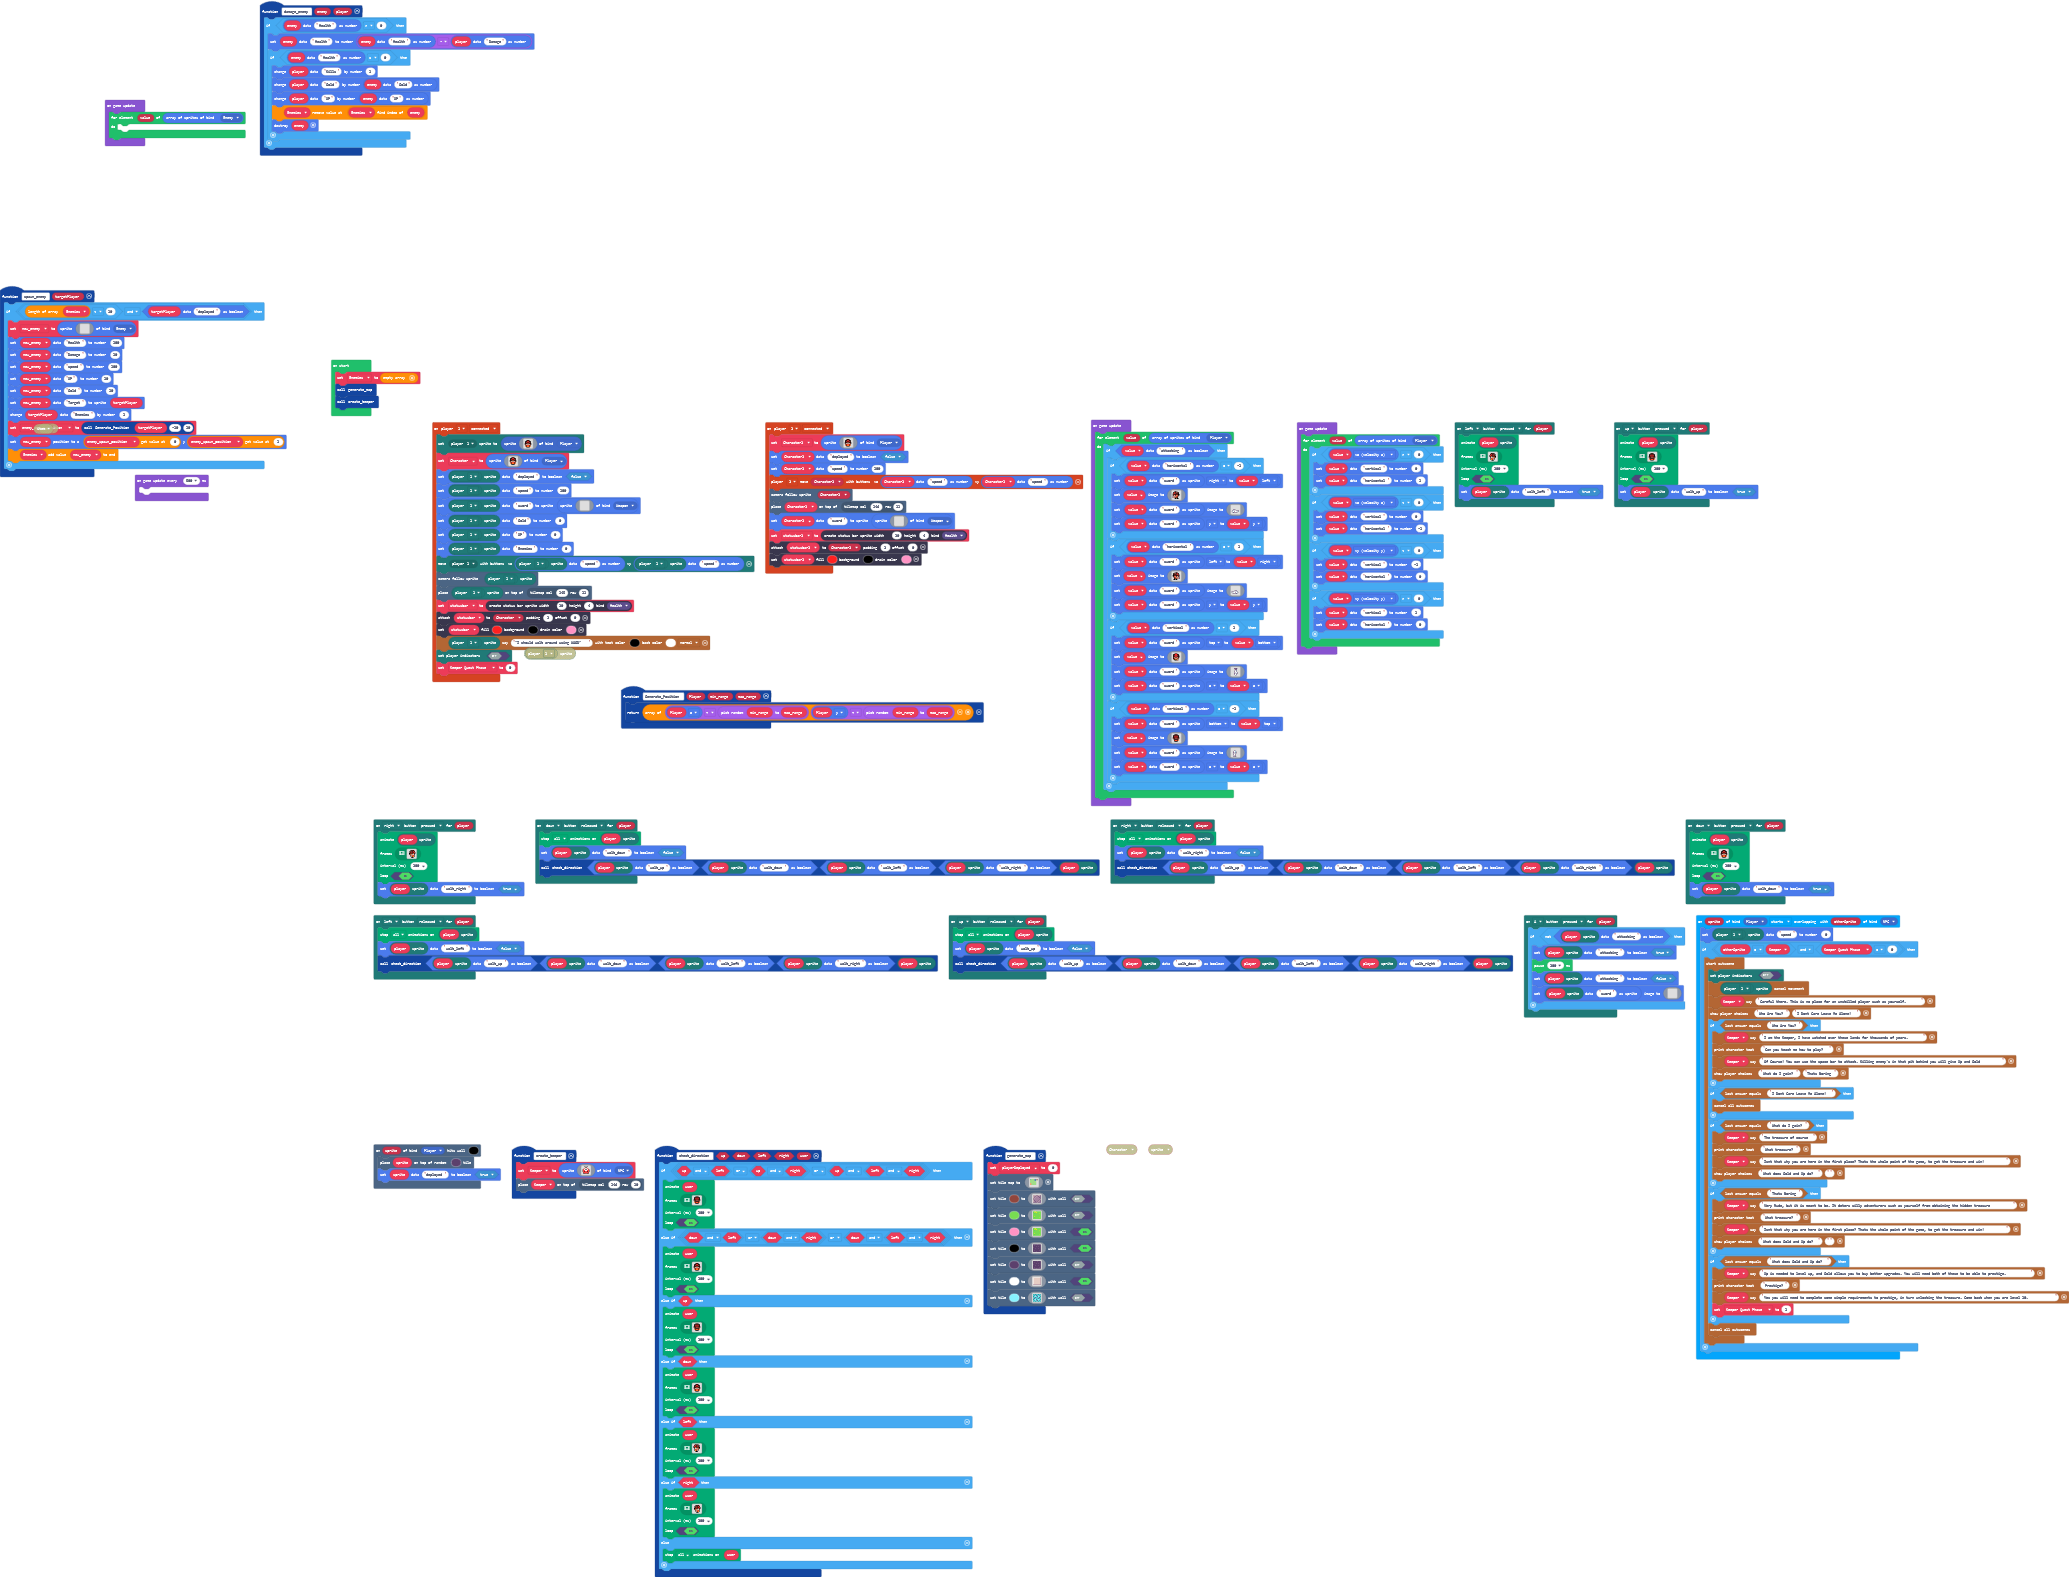
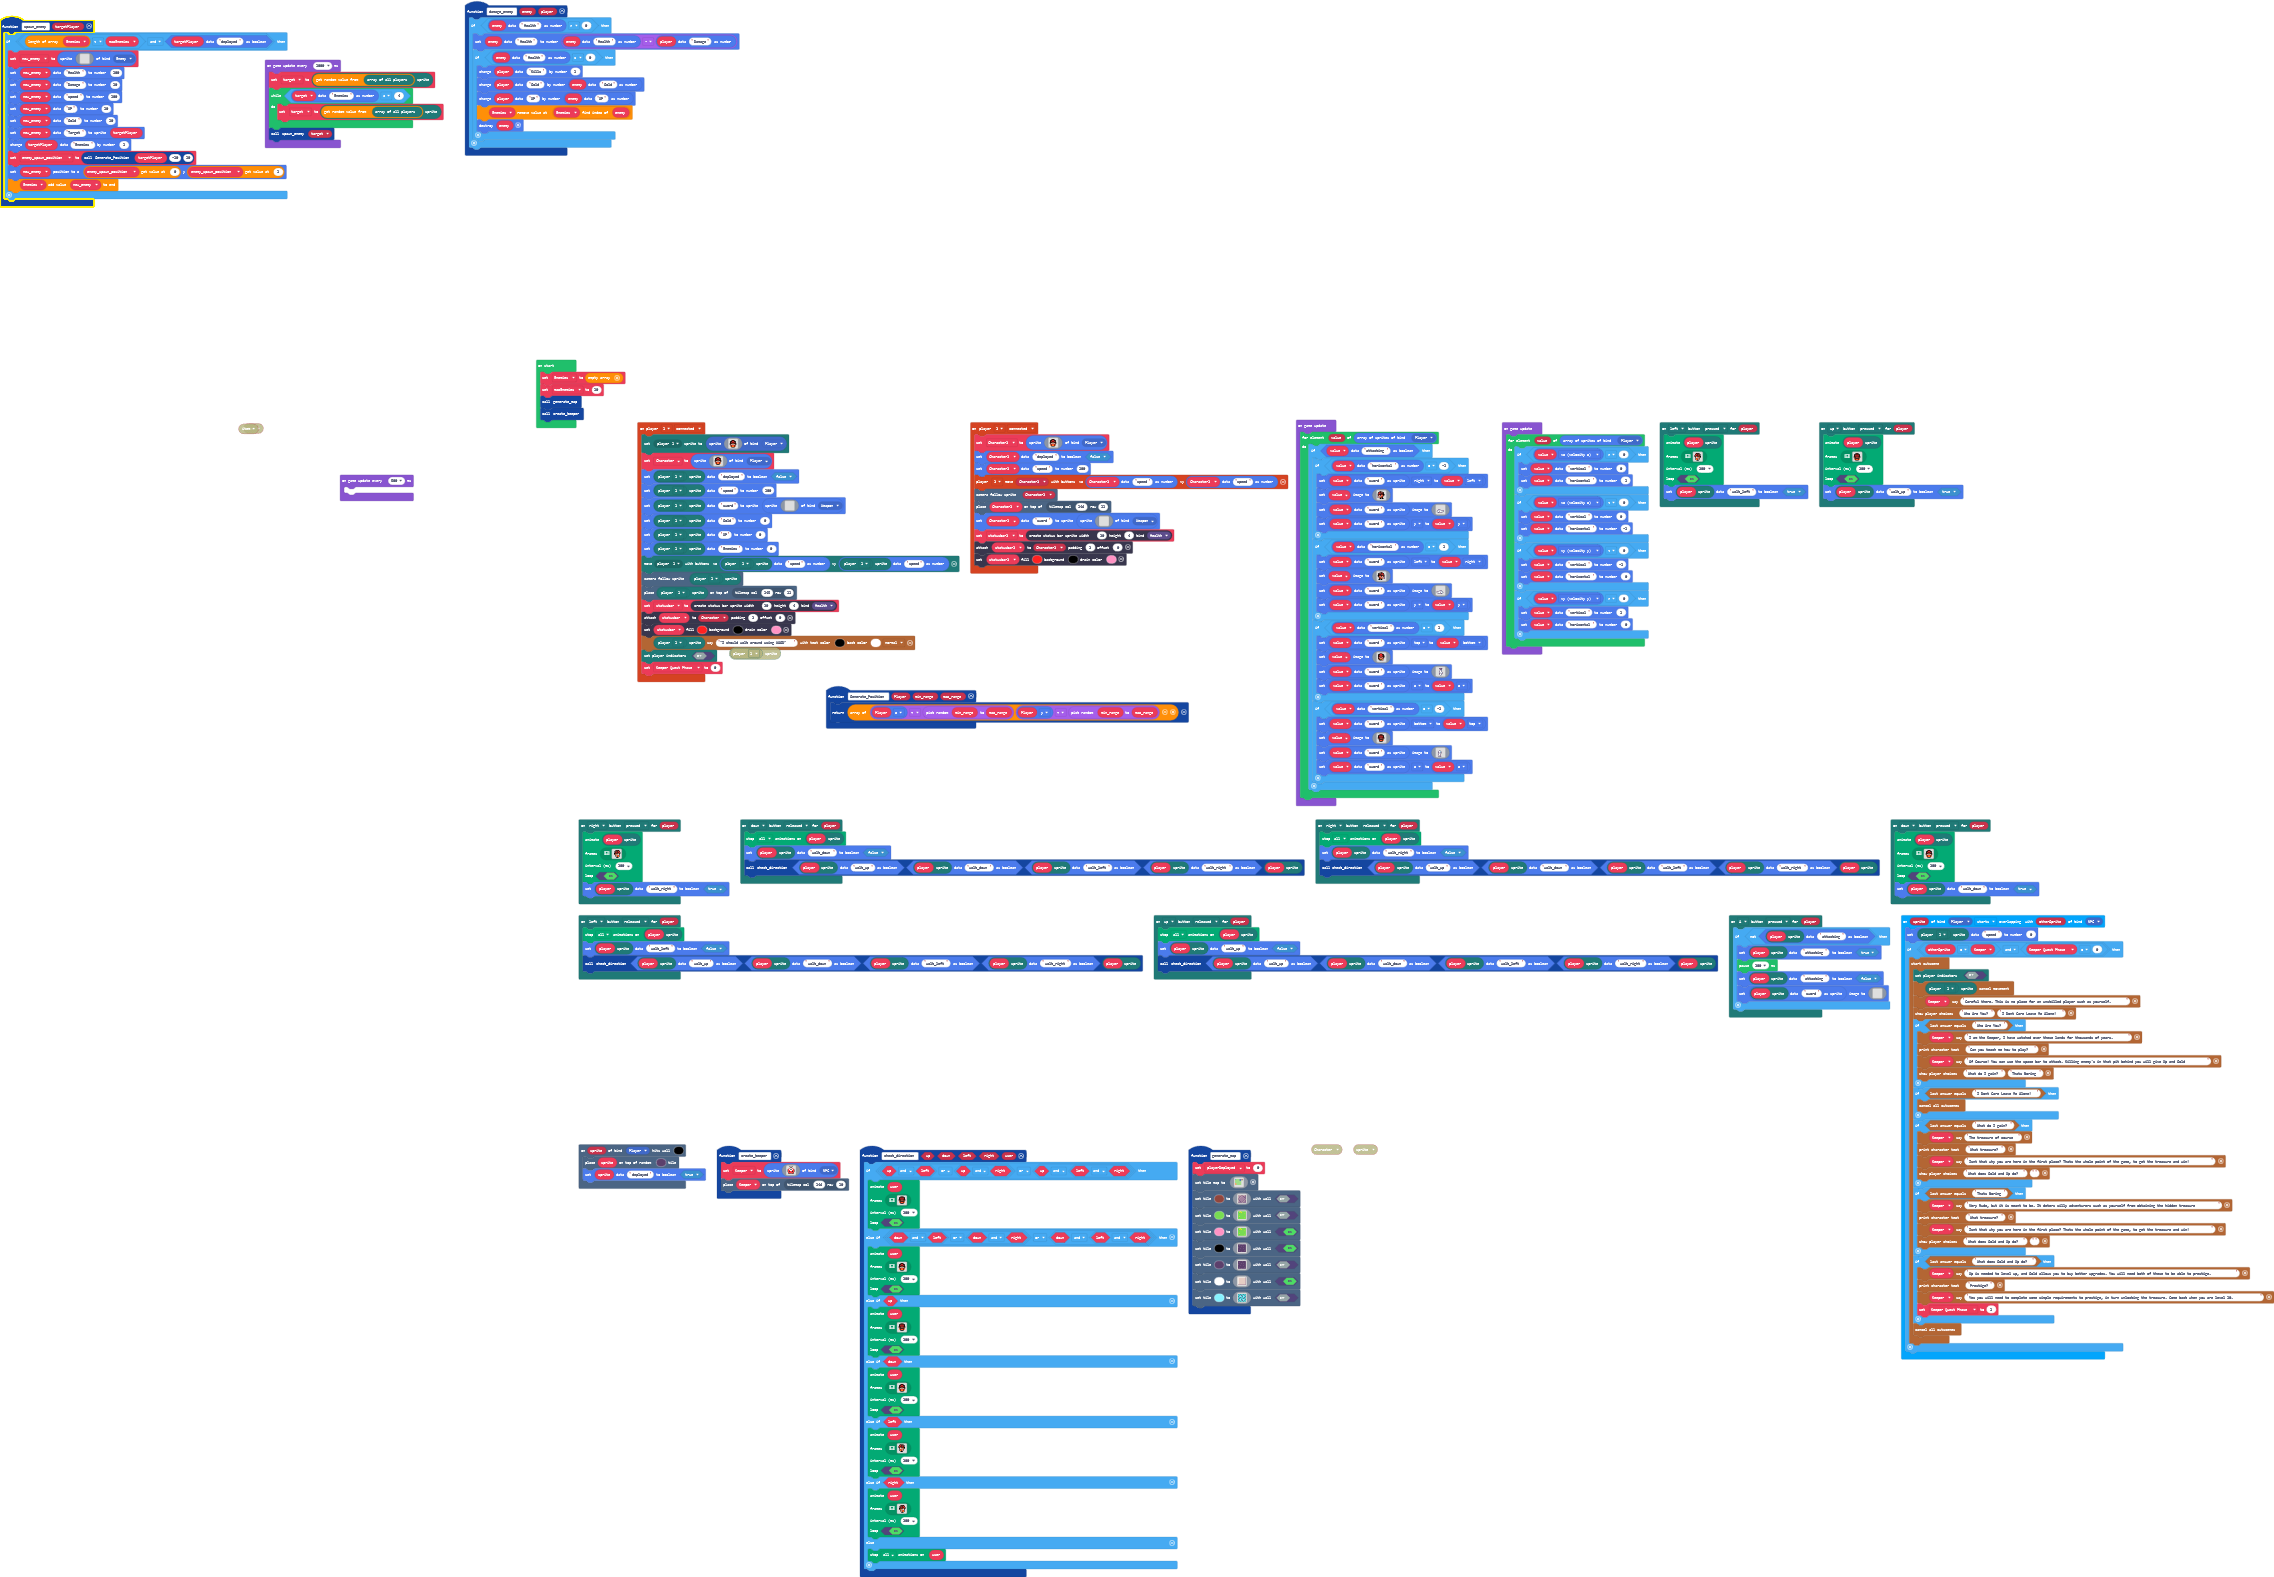
Update main.blocks, main.ts

diff --git a/main.ts b/main.ts
@@ -782,7 +782,7 @@ mp.onButtonEvent(mp.MultiplayerButton.Left, ControllerButtonEvent.Pressed, funct
     sprites.setDataBoolean(mp.getPlayerSprite(player2), "walk_left", true)
 })
 function spawn_enemy (targetPlayer: Sprite) {
-    if (Enemies.length < 10 && sprites.readDataBoolean(targetPlayer, "deployed")) {
+    if (Enemies.length < maxEnemies && sprites.readDataBoolean(targetPlayer, "deployed")) {
         new_enemy = sprites.create(img`
             . . . . . . . . . . . . . . . . 
             . . . . . . . . . . . . . . . . 
@@ -1157,6 +1157,7 @@ function generate_map () {
         6 6 6 6 6 6 6 6 6 6 6 6 6 6 6 6 
         `, false)
 }
+let target: Sprite = null
 let playerDeployed = 0
 let statusbar: StatusBarSprite = null
 let Character: Sprite = null
@@ -1166,15 +1167,12 @@ let enemy_spawn_position: number[] = []
 let new_enemy: Sprite = null
 let Keeper_Quest_Phase = 0
 let Keeper: Sprite = null
+let maxEnemies = 0
 let Enemies: Sprite[] = []
 Enemies = []
+maxEnemies = 10
 generate_map()
 create_keeper()
-game.onUpdate(function () {
-    for (let value of sprites.allOfKind(SpriteKind.Enemy)) {
-    	
-    }
-})
 game.onUpdate(function () {
     for (let value of sprites.allOfKind(SpriteKind.Player)) {
         if (sprites.readDataBoolean(value, "attacking")) {
@@ -1224,6 +1222,13 @@ game.onUpdate(function () {
             sprites.setDataNumber(value, "horizontal", 0)
         }
     }
+})
+game.onUpdateInterval(1000, function () {
+    target = mp.getPlayerSprite(mp.allPlayers()._pickRandom())
+    while (sprites.readDataNumber(target, "Enemies") >= 4) {
+        target = mp.getPlayerSprite(mp.allPlayers()._pickRandom())
+    }
+    spawn_enemy(target)
 })
 game.onUpdateInterval(500, function () {
 	
